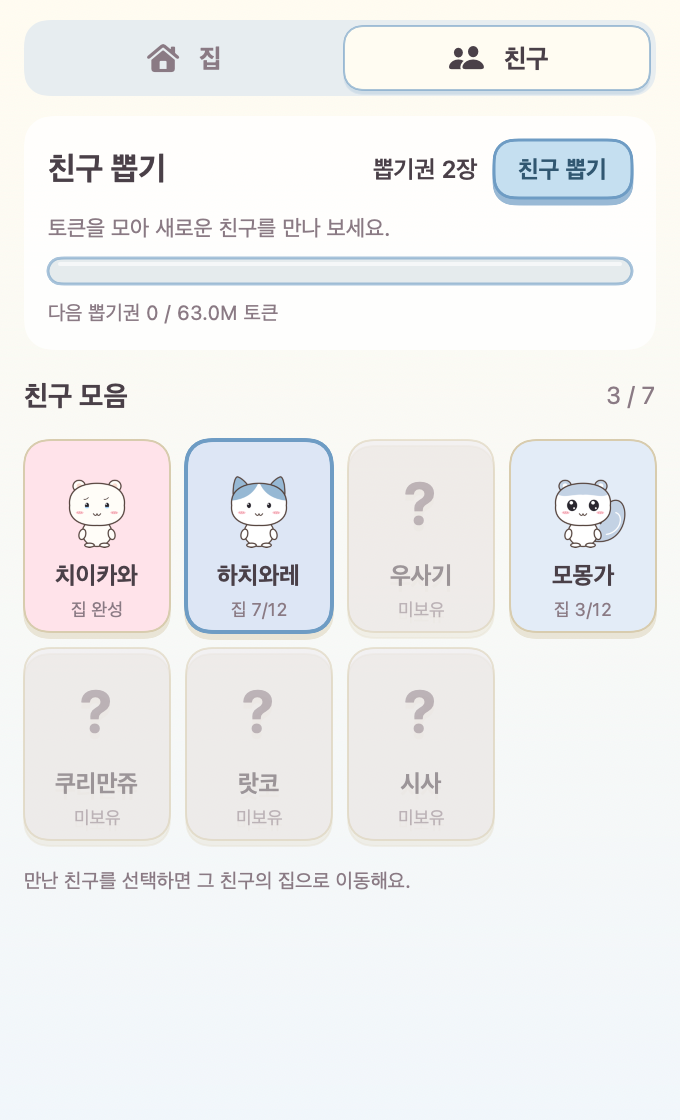
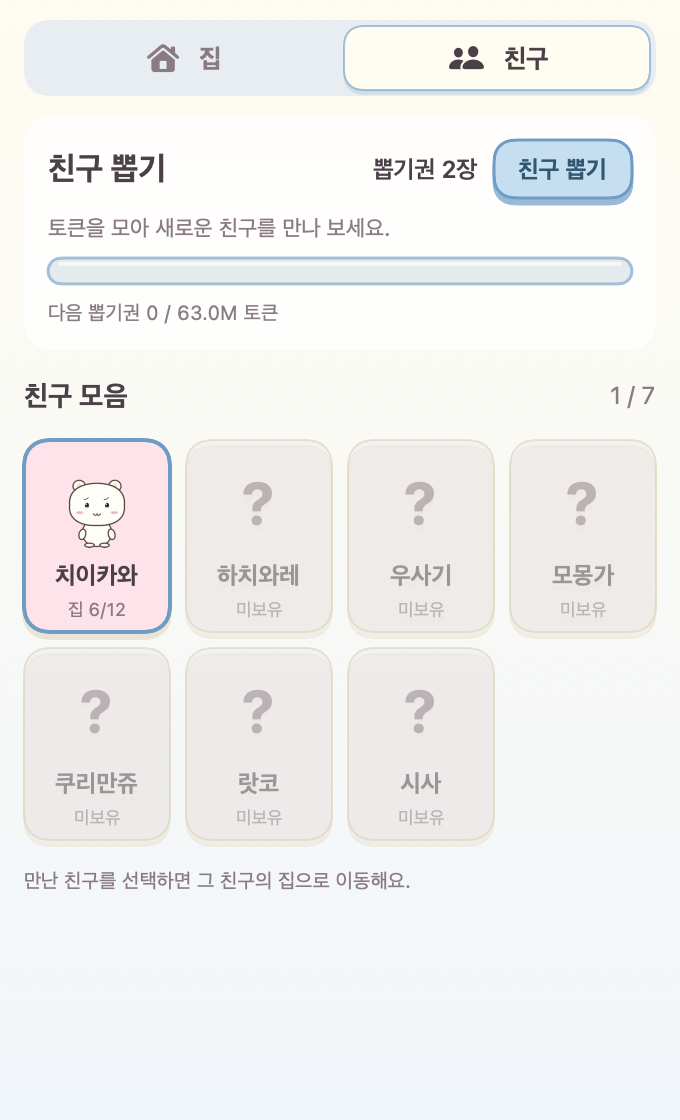
Show only Chiikawa at house stage six in collection preview

diff --git a/Sources/ChiiBar/Previews.swift b/Sources/ChiiBar/Previews.swift
@@ -90,6 +90,9 @@ enum Previews {
         growing.dailyProgress?[.chiikawa]?.earned = 50_400_000
         save("popover_today_goal_complete", popSize, PopoverView(model: AppModel(state: growing, stateURL: nil, fixedNow: now)))
         let collection = fixtureModel(lastTokenAgo: 60)
+        collection.state.houses = [.chiikawa: House(stage: 6)]
+        collection.state.met = [.chiikawa]
+        collection.state.current = .chiikawa
         collection.tab = .friends
         save("popover_friends", popSize, PopoverView(model: collection))
         let full = fixtureModel(lastTokenAgo: 60)
